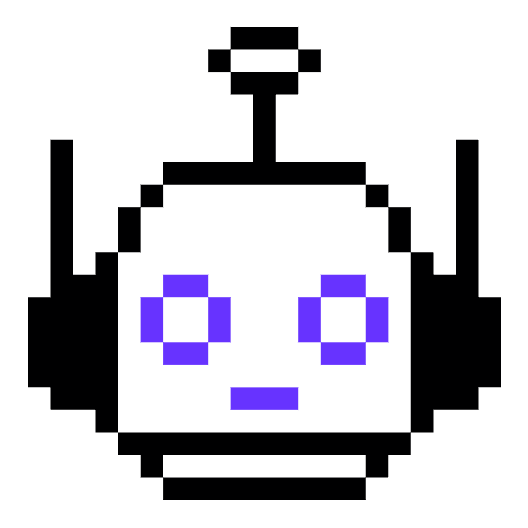
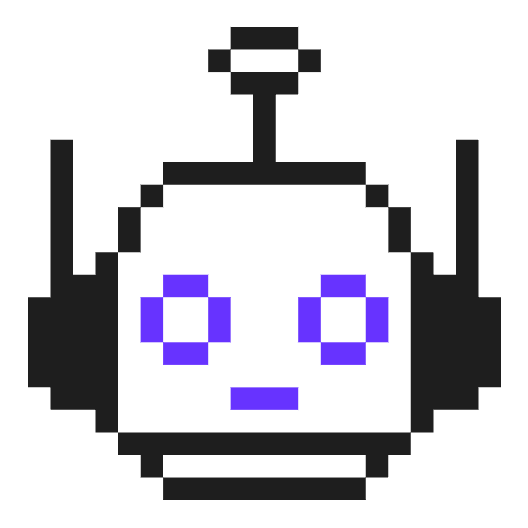
Refresh index monograms with wireframe variants, Ideas animation, and site_entry analytics.
Swap slide pixel art assets, add dedicated wireframe icons and SVG filter handling, animate the Ideas robot, and track first landing context per session.

Changed region(s): [[0.0303, 0.0303, 0.9697, 0.9697]]

diff --git a/src/app/globals.css b/src/app/globals.css
@@ -505,6 +505,31 @@ main.index-root[data-debug="true"] [data-index] [aria-label="Scroll position"] {
   background-color: transparent !important;
 }
 
+/* Index slide pixel monograms — transparent asset, white strokes in wireframe. */
+.wireframe-mode .index-slide-monogram,
+main.index-root[data-debug="true"] .index-slide-monogram {
+  filter: url(#wireframe-monogram);
+}
+
+.wireframe-mode .ideas-robot__image--wireframe,
+main.index-root[data-debug="true"] .ideas-robot__image--wireframe,
+.wireframe-mode .index-slide-monogram--native-wireframe,
+main.index-root[data-debug="true"] .index-slide-monogram--native-wireframe {
+  filter: none;
+}
+
+.wireframe-mode .ideas-robot__float,
+main.index-root[data-debug="true"] .ideas-robot__float,
+.wireframe-mode .ideas-robot__eyelid,
+main.index-root[data-debug="true"] .ideas-robot__eyelid {
+  animation: none !important;
+}
+
+.wireframe-mode .ideas-robot__eyelid,
+main.index-root[data-debug="true"] .ideas-robot__eyelid {
+  display: none;
+}
+
 .ghost-spacer {
   pointer-events: none;
   user-select: none;
@@ -639,5 +664,66 @@ html.site-custom-cursor [contenteditable="true"] {
 @media (prefers-reduced-motion: reduce) {
   .site-cursor {
     transition: none;
+  }
+}
+
+/* Ideas index slide — robot monogram (CSS keyframes; FM keyframes stall with initial={false}). */
+@keyframes ideas-robot-float {
+  0%,
+  100% {
+    transform: translateY(0);
+  }
+
+  50% {
+    transform: translateY(-14px);
+  }
+}
+
+@keyframes ideas-robot-blink {
+  0%,
+  26%,
+  30%,
+  56%,
+  60%,
+  100% {
+    transform: scaleY(0);
+  }
+
+  28%,
+  58% {
+    transform: scaleY(1);
+  }
+}
+
+.ideas-robot__float {
+  animation: ideas-robot-float 2.8s ease-in-out infinite;
+}
+
+.ideas-robot__eyelid {
+  pointer-events: none;
+  position: absolute;
+  transform-origin: top;
+  background-color: #1e1e1e;
+  animation: ideas-robot-blink 4.8s linear infinite;
+}
+
+.ideas-robot__eyelid--left {
+  left: 26.7%;
+  top: 52.1%;
+  width: 16.9%;
+  height: 8.5%;
+}
+
+.ideas-robot__eyelid--right {
+  left: 56.4%;
+  top: 52.1%;
+  width: 17.1%;
+  height: 8.5%;
+}
+
+@media (prefers-reduced-motion: reduce) {
+  .ideas-robot__float,
+  .ideas-robot__eyelid {
+    animation: none !important;
   }
 }

diff --git a/src/components/slider/section-frame-ideas-monogram.tsx b/src/components/slider/section-frame-ideas-monogram.tsx
@@ -1,0 +1,44 @@
+"use client";
+
+import { useWireframe } from "@/context/wireframe-context";
+
+interface SectionFrameIdeasMonogramProps {
+  src: string;
+}
+
+const IDEAS_MONOGRAM_WIREFRAME = "/assets/index/ideas-monogram-wireframe.png";
+
+const ROBOT_IMAGE_CLASS =
+  "ideas-robot__image pointer-events-none block h-[min(320px,45vh)] w-auto select-none [image-rendering:pixelated]";
+
+export function SectionFrameIdeasMonogram({ src }: SectionFrameIdeasMonogramProps) {
+  const { wireframe } = useWireframe();
+  const imageSrc = wireframe ? IDEAS_MONOGRAM_WIREFRAME : src;
+
+  return (
+    <div className="ideas-robot flex h-full w-full items-center justify-center overflow-hidden">
+      <div className="ideas-robot__float relative transition-transform duration-200 group-hover:-translate-y-2 group-hover:scale-[1.08]">
+        <div className="ideas-robot__body relative inline-block">
+          {/* eslint-disable-next-line @next/next/no-img-element */}
+          <img
+            src={imageSrc}
+            alt=""
+            aria-hidden
+            draggable={false}
+            className={[
+              ROBOT_IMAGE_CLASS,
+              wireframe ? "ideas-robot__image--wireframe" : "index-slide-monogram",
+            ].join(" ")}
+          />
+
+          {!wireframe ? (
+            <>
+              <span aria-hidden className="ideas-robot__eyelid ideas-robot__eyelid--left" />
+              <span aria-hidden className="ideas-robot__eyelid ideas-robot__eyelid--right" />
+            </>
+          ) : null}
+        </div>
+      </div>
+    </div>
+  );
+}

diff --git a/src/components/site-entry-analytics.tsx b/src/components/site-entry-analytics.tsx
@@ -1,0 +1,33 @@
+"use client";
+
+import { useEffect } from "react";
+import { trackSiteEntry } from "@/lib/analytics";
+
+const SESSION_KEY = "site-entry-tracked";
+
+function getReferrerHost(): string {
+  if (typeof document === "undefined" || !document.referrer) return "direct";
+
+  try {
+    return new URL(document.referrer).hostname || "direct";
+  } catch {
+    return "direct";
+  }
+}
+
+/** Fires `site_entry` once per browser session for geo + behaviour correlation in Vercel. */
+export function SiteEntryAnalytics(): null {
+  useEffect(() => {
+    if (sessionStorage.getItem(SESSION_KEY) === "1") return;
+    sessionStorage.setItem(SESSION_KEY, "1");
+
+    trackSiteEntry({
+      landing_path: window.location.pathname,
+      referrer_host: getReferrerHost(),
+      timezone: Intl.DateTimeFormat().resolvedOptions().timeZone,
+      locale: navigator.language,
+    });
+  }, []);
+
+  return null;
+}

diff --git a/src/components/slider/section-frame-image.tsx b/src/components/slider/section-frame-image.tsx
@@ -1,19 +1,31 @@
 "use client";
 
+import { useWireframe } from "@/context/wireframe-context";
+
 interface SectionFrameImageProps {
   src: string;
+  wireframeSrc?: string;
 }
 
-export function SectionFrameImage({ src }: SectionFrameImageProps) {
+export function SectionFrameImage({ src, wireframeSrc }: SectionFrameImageProps) {
+  const { wireframe } = useWireframe();
+  const useNativeWireframe = wireframe && Boolean(wireframeSrc);
+  const imageSrc = useNativeWireframe ? wireframeSrc! : src;
+
   return (
     <div className="flex h-full w-full items-center justify-center overflow-hidden">
       {/* eslint-disable-next-line @next/next/no-img-element */}
       <img
-        src={src}
+        src={imageSrc}
         alt=""
         aria-hidden
         draggable={false}
-        className="pointer-events-none h-[min(320px,45vh)] w-auto select-none [image-rendering:pixelated]"
+        className={[
+          "pointer-events-none h-[min(320px,45vh)] w-auto select-none [image-rendering:pixelated]",
+          useNativeWireframe
+            ? "index-slide-monogram--native-wireframe"
+            : "index-slide-monogram",
+        ].join(" ")}
       />
     </div>
   );

diff --git a/src/components/wireframe-filters.tsx b/src/components/wireframe-filters.tsx
@@ -1,0 +1,12 @@
+/** SVG filter defs for wireframe mode — preserves alpha, recolours opaque pixels to white. */
+export function WireframeFilters(): React.ReactElement {
+  return (
+    <svg aria-hidden className="sr-only" width="0" height="0">
+      <defs>
+        <filter id="wireframe-monogram" colorInterpolationFilters="sRGB">
+          <feColorMatrix values="0 0 0 0 1  0 0 0 0 1  0 0 0 0 1  0 0 0 1 0" />
+        </filter>
+      </defs>
+    </svg>
+  );
+}

diff --git a/src/components/slider/section-frame.tsx b/src/components/slider/section-frame.tsx
@@ -5,6 +5,7 @@ import { MeIntroVideo } from "@/components/me/me-intro-video";
 import { springSlider } from "@/lib/spring";
 import { FrameShell } from "@/components/slider/frame-shell";
 import { SectionFrameLottie } from "@/components/slider/section-frame-lottie";
+import { SectionFrameIdeasMonogram } from "@/components/slider/section-frame-ideas-monogram";
 import { SectionFrameImage } from "@/components/slider/section-frame-image";
 import { SectionFrameMonogram } from "@/components/slider/section-frame-monogram";
 import { SectionFrameTypingMonogram } from "@/components/slider/section-frame-typing-monogram";
@@ -45,7 +46,14 @@ export function SectionFramePanel({
           className="pointer-events-none h-[min(480px,70vh)] w-[min(480px,70vh)]"
         />
       ) : frame.monogramImage ? (
-        <SectionFrameImage src={frame.monogramImage} />
+        frame.id === "ideas" ? (
+          <SectionFrameIdeasMonogram src={frame.monogramImage} />
+        ) : (
+          <SectionFrameImage
+            src={frame.monogramImage}
+            wireframeSrc={frame.monogramWireframeImage}
+          />
+        )
       ) : frame.monogramTyping ? (
         <SectionFrameTypingMonogram text={monogram} fontSize={fontSize} />
       ) : frame.monogramPan ? (

diff --git a/src/lib/analytics.ts b/src/lib/analytics.ts
@@ -12,6 +12,16 @@ export function trackContactClick(method: ContactMethod): void {
   track("contact_click", { method });
 }
 
+/** Once per session — landing context; pair with Countries filter in Vercel Analytics. */
+export function trackSiteEntry(properties: {
+  landing_path: string;
+  referrer_host: string;
+  timezone: string;
+  locale: string;
+}): void {
+  track("site_entry", properties);
+}
+
 export function trackResumeDownload(): void {
   track("resume_download");
 }

diff --git a/src/app/layout.tsx b/src/app/layout.tsx
@@ -2,6 +2,8 @@ import type { Metadata } from "next";
 import { Geist } from "next/font/google";
 import { Analytics } from "@vercel/analytics/next";
 import CacheManager from "@/components/CacheManager";
+import { WireframeFilters } from "@/components/wireframe-filters";
+import { SiteEntryAnalytics } from "@/components/site-entry-analytics";
 import ScrollToTop from "@/components/ScrollToTop";
 import { SiteCursor } from "@/components/site-cursor-loader";
 import { AiChatBall } from "@/components/ai-chat/ai-chat-ball";
@@ -35,6 +37,7 @@ export default function RootLayout({
         <link rel="preconnect" href={BLOB_CDN_ORIGIN} crossOrigin="anonymous" />
       </head>
       <body className="relative min-h-screen bg-[#1a1a1a] text-white antialiased">
+        <WireframeFilters />
         <SkipToContentLink />
         <CacheManager />
         <ScrollToTop />
@@ -44,6 +47,7 @@ export default function RootLayout({
           <AiChatBall />
         </WireframeProvider>
         <Analytics />
+        <SiteEntryAnalytics />
       </body>
     </html>
   );

diff --git a/src/components/slider/frame-shell.tsx b/src/components/slider/frame-shell.tsx
@@ -66,7 +66,7 @@ export function FrameShell({
     <motion.article
       tabIndex={0}
       data-variant={frame.variant}
-      className="frame-panel outline-none select-none"
+      className={`frame-panel outline-none select-none${isSlide ? " group" : ""}`}
       style={{
         width: FRAME_WIDTH,
         height: FRAME_HEIGHT,

diff --git a/src/lib/constants.ts b/src/lib/constants.ts
@@ -39,6 +39,7 @@ export const FRAMES = [
     variant: "slide" as const,
     label: "Design Review",
     monogramImage: "/assets/index/article-cursor-hand.png",
+    monogramWireframeImage: "/assets/index/article-cursor-hand-wireframe.png",
     href: `${ROUTES.craft}/design-review-checklist`,
   },
   {
@@ -47,6 +48,7 @@ export const FRAMES = [
     variant: "slide" as const,
     label: "Craft",
     monogramImage: "/assets/index/craft-monogram.png",
+    monogramWireframeImage: "/assets/index/craft-monogram-wireframe.png",
     href: ROUTES.craft,
   },
   {

diff --git a/src/types/index.ts b/src/types/index.ts
@@ -23,6 +23,8 @@ export interface SectionFrame {
   monogramTyping?: boolean;
   /** Centered image instead of monogram text. */
   monogramImage?: string;
+  /** Wireframe-mode variant — used instead of `monogramImage` when layout debug is on. */
+  monogramWireframeImage?: string;
   /** Hide the small label above the slide panel. */
   hideSlideLabel?: boolean;
   /** Mask pan loop duration in seconds. */